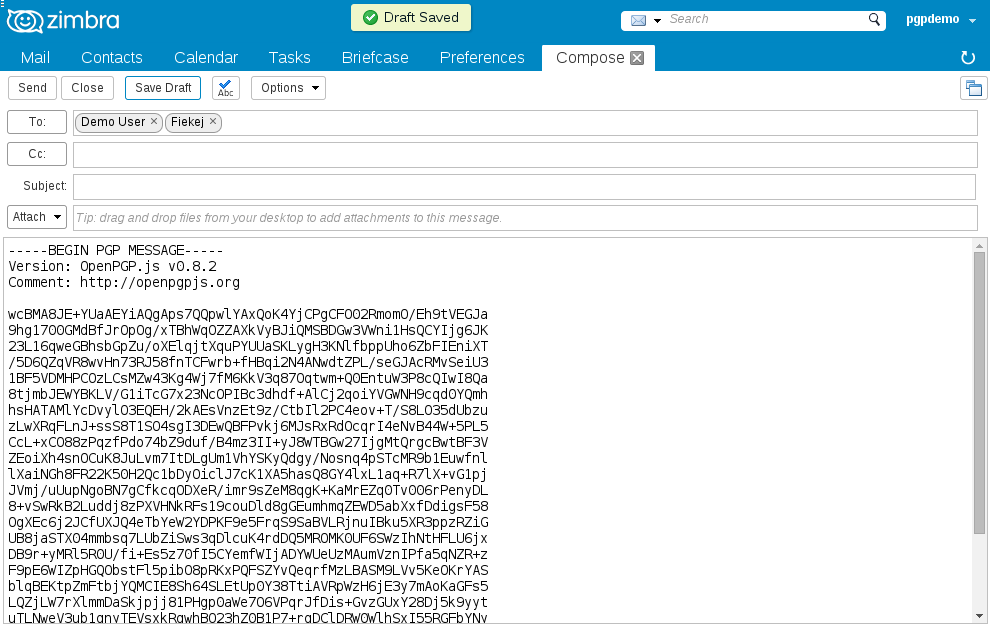
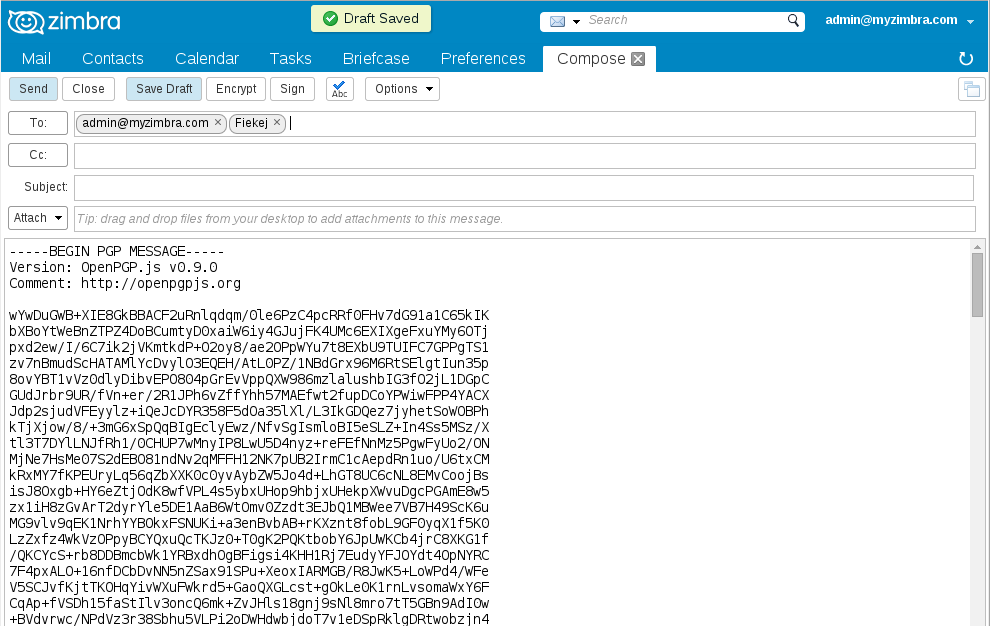
Adding new help screenshots that illustrate the use of the Zimbra compose window and HTML formatting.

Changed region(s): [[0.0, 0.0, 1.0, 1.0], [0.9697, 0.9712, 1.0, 1.0]]

diff --git a/tk_barrydegraaff_zimbra_openpgp/help/index.html b/tk_barrydegraaff_zimbra_openpgp/help/index.html
@@ -109,16 +109,16 @@ Now go back to the "Manage keys" window. You should see your keys and passphrase
 
 <br><br><a name="sign"></a>
 <h2>Clear signing a message</h2>
-Right click on OpenPGP and click "Sign message".<br>
+Compose an E-mail message like usual in Zimbra, then click the Sign button when you are done.<br>
 <br><img src="sign-message-menu.png" alt=""><br><hr><br>
 
-Enter your Private Key and Passphrase if needed and compose your message. Click OK when you are done.<br>
+Enter your Private Key and Passphrase if needed. Click OK when you are done.<br>
 <br><img src="sign-message-window.png" alt=""><br><hr><br>
 
 You will now see the Zimbra compose window with your signed message. Enter a subject and select recipients like a normal mail and click Save Draft and Close when you are done.<br>
 <br><img src="sign-message-window-compose.png" alt=""><br><hr><br>
 
-Go to your Drafts folder and click the mail you just created. There should be a message saying "Got a good signature.", you can now open and send your mail.<br>
+Go to your Drafts folder and click the mail you just created. There should be a message saying "Got a good signature.", if you used HTML formatting your message is now shown. Click OK then you can open and send your mail.<br>
 <br><img src="sign-message-goodsig.png" alt=""><br><hr><br>
 
 
@@ -129,12 +129,11 @@ Before you can encrypt messages or verify signatures you must copy-paste Public 
 
 <br><br><a name="encrypt"></a>
 <h2>Encrypting a message</h2>
-Right click on OpenPGP and then click "Encrypt message".<br>
+Compose an E-mail message like usual in Zimbra, then click the Encrypt button when you are done.<br>
 <br><img src="encrypt-message-menu.png" alt=""><br><hr><br>
 In the "Encrypt message" window:
 <ol>
 <li>Select one or more recipients using (CTRL+click). You may wish to select yourself so you can read the message afterwards</li>
-<li>Compose the message</li>
 </ol>
 In case the private key and passphrase are set, your encrypted message will also be signed. Click OK when you are done.<br>
 <br><img src="encrypt-message-window.png" alt=""><br><hr><br>

diff --git a/README.md b/README.md
@@ -31,7 +31,7 @@ Bugs and feedback: https://github.com/barrydegraaff/pgp-zimlet/issues
     su zimbra
     cd /tmp
     rm tk_barrydegraaff_zimbra_openpgp*
-    wget https://github.com/barrydegraaff/pgp-zimlet-binaries/raw/master/1.3.2/tk_barrydegraaff_zimbra_openpgp.zip
+    wget https://github.com/barrydegraaff/pgp-zimlet-binaries/raw/master/1.3.3/tk_barrydegraaff_zimbra_openpgp.zip
     zmzimletctl deploy tk_barrydegraaff_zimbra_openpgp.zip
     (wait 15 minutes for the deploy to propagate; or zmprov fc all)
 
